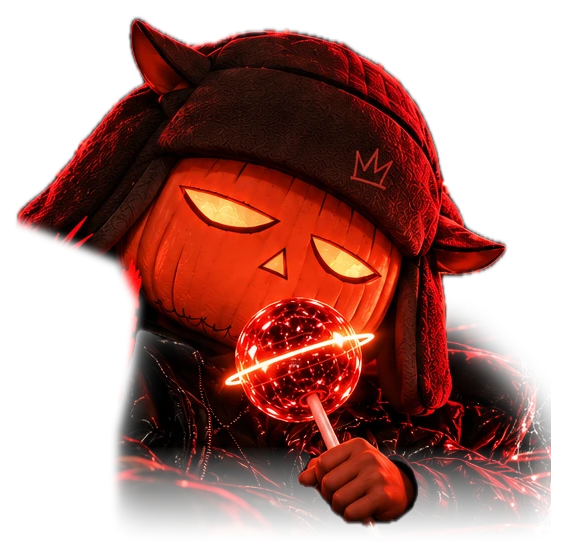
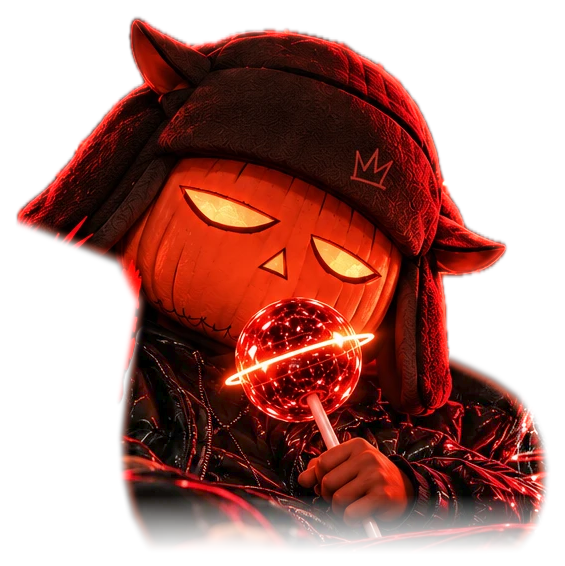
fix(halloween): rend visible le côté droit de la mascotte
- Contour du buste retracé (épaules arrondies), doudoune éclaircie
- Liseré de lumière rouge sur la silhouette, plus marqué à droite
- Sticker « Viens en ton artiste préféré » déplacé à gauche du visuel

diff --git a/src/components/ui/Mascot3D.vue b/src/components/ui/Mascot3D.vue
@@ -37,7 +37,7 @@ onUnmounted(() => {
 </script>
 
 <template>
-  <div ref="stage" class="mascot-stage relative aspect-[567/549]">
+  <div ref="stage" class="mascot-stage relative aspect-[565/566]">
     <!-- Disque plat derrière la tête : le buste en déborde par le bas et les côtés -->
     <div
       class="absolute left-[9%] top-[-3%] w-[82%] aspect-square rounded-full bg-blood transition-transform duration-500 ease-out"
@@ -59,7 +59,7 @@ onUnmounted(() => {
           fetchpriority="high"
         />
         <!-- Halo de la sucette, posé devant -->
-        <span class="mascot-glow pointer-events-none absolute left-[53%] top-[63%] h-[26%] w-[26%] rounded-full"></span>
+        <span class="mascot-glow pointer-events-none absolute left-[53%] top-[61%] h-[26%] w-[26%] rounded-full"></span>
       </div>
     </div>
   </div>

diff --git a/src/components/EventHero.vue b/src/components/EventHero.vue
@@ -103,8 +103,8 @@ const facts = [
 
           <!-- Sticker dress code -->
           <div
-            class="animate-float absolute -bottom-2 -right-6 grid h-28 w-28 place-items-center sm:right-0 sm:h-36 sm:w-36 lg:-right-4"
-            style="--r: 10deg"
+            class="animate-float absolute -bottom-4 -left-2 z-10 grid h-28 w-28 place-items-center sm:-left-4 sm:h-36 sm:w-36"
+            style="--r: -10deg"
           >
             <svg viewBox="0 0 100 100" class="absolute inset-0 h-full w-full text-blood" aria-hidden="true">
               <path fill="currentColor" d="M50 3c9 0 14 6 22 8s16 4 20 12 0 15 3 23 4 17-1 24-15 9-21 15-11 12-21 12-15-5-23-8-17-3-22-11-1-16-4-24-6-17-2-24 13-8 20-14S41 3 50 3Z" />
